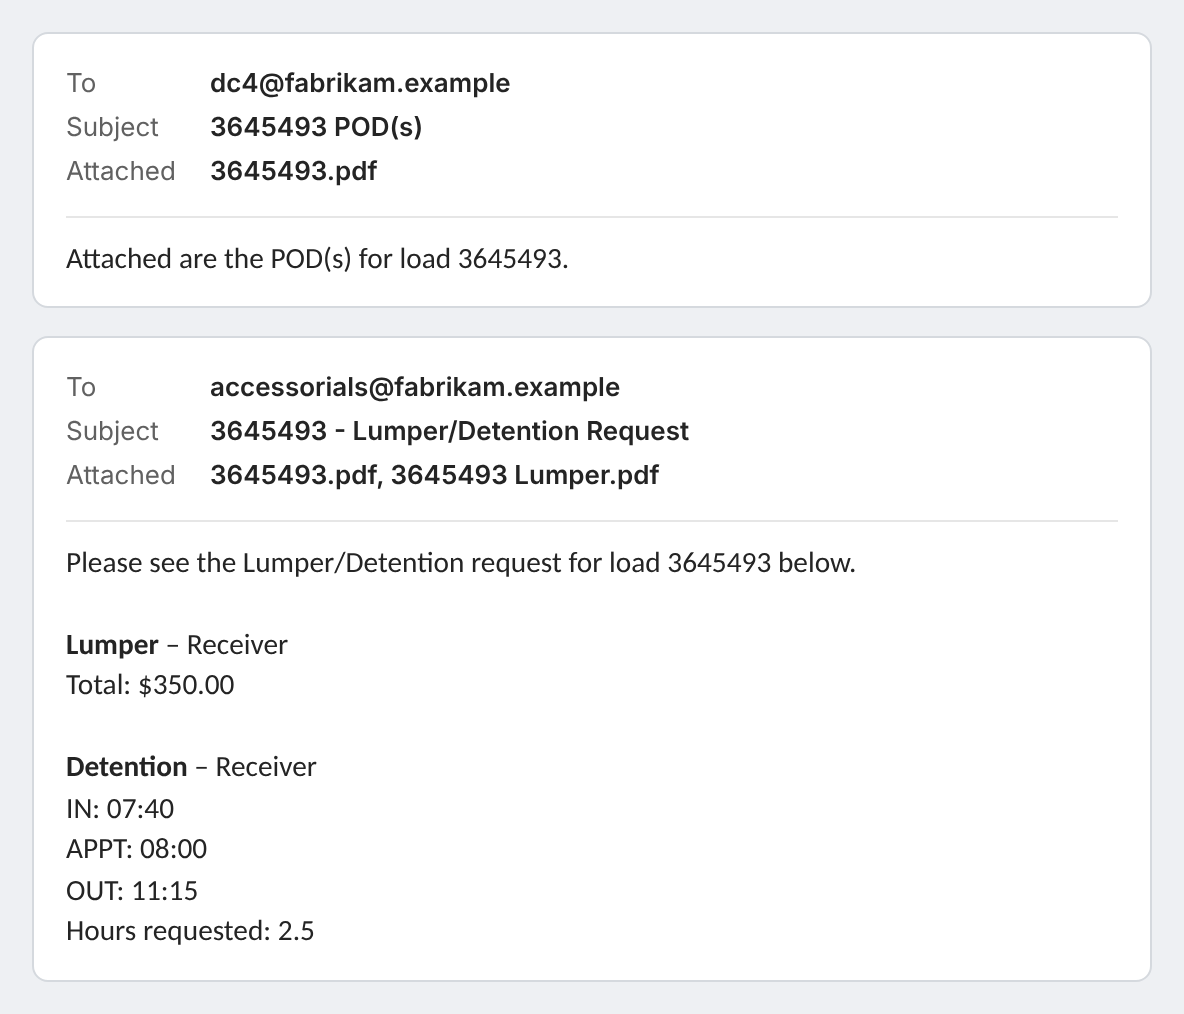
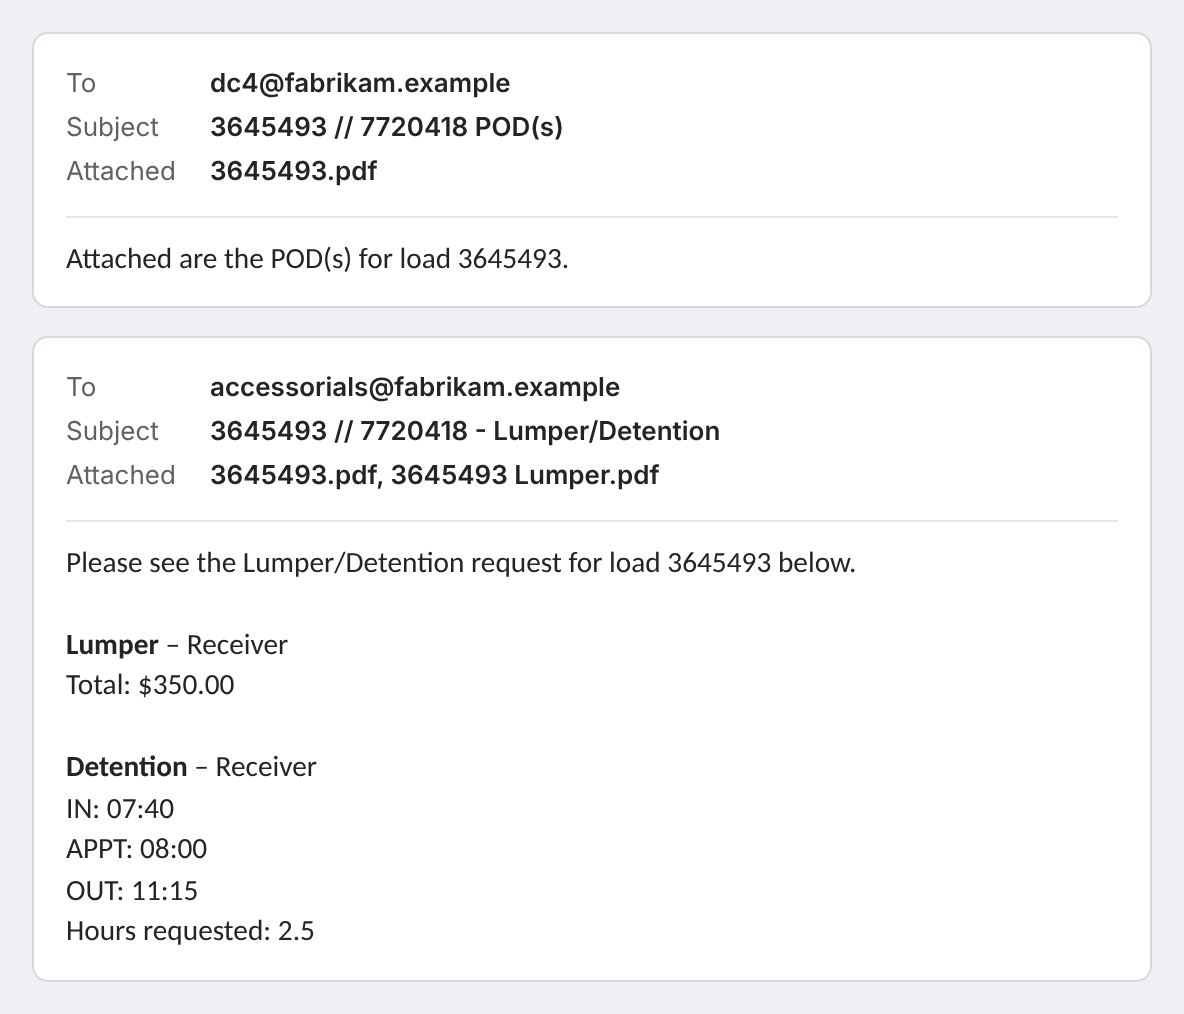
Add files via upload

Changed region(s): [[0.2812, 0.3974, 0.5938, 0.4586], [0.2812, 0.0917, 0.4688, 0.1529]]

diff --git a/taskpane.js b/taskpane.js
@@ -6,7 +6,7 @@
  * optional "attach automatically" step, to the team admin's own PDF Emails Azure function.
  */
 
-const VERSION = '0.28.4';
+const VERSION = '0.28.5';
 const SMALL_INLINE_BYTES = 50 * 1024; // logo test for images whose pixel size can't be read
 const LOGO_MAX_SIDE = 400;            // pictures in the email body this small (in pixels) are logos/icons...
 const LOGO_THIN_SIDE = 120;           // ...and so are thin banners, unless they were pasted into the message itself
@@ -163,6 +163,7 @@ const WORDS = {
 
   // Create email (the accessorials' names and fields are written the same way in the email)
   loadNumber: "Load number",
+  bolNumber: "BOL number",                         // needed for every email: it goes in the subject (0.28.5)
   accessorials: "Accessorials",
   addAccessorial: "Add an accessorial",            // drops down the accessorials; each one picked gets its own box
   lumper: "Lumper",
@@ -182,10 +183,10 @@ const WORDS = {
   shipperOrReceiver: "Shipper or receiver?",       // the drop-down's prompt
   shipperOrStop: "Shipper or which stop?",         // the same, with Multi-stop on
   createEmail: "Create email",
-  subject: "{load} POD(s)",                        // every email's subject
+  subject: "{load} // {bol} POD(s)",               // every email's subject ({bol}: the BOL number typed with the load number)
 
   // The separate accessorial email (for templates with "Accessorials in a separate email")
-  accessorialSubject: "{load} - {types} Request",  // its subject; {types} is like Lumper/Detention
+  accessorialSubject: "{load} // {bol} - {types}", // its subject; {types} is like Lumper/Detention
   accessorialIntro: "Please see the {types} request for load {load} below.", // its first line, unless the template has its own
 
   // The rate confirmation check
@@ -281,6 +282,7 @@ const state = {
   topic: '',
   fileName: '',          // the name typed in "Name the PDF" (for the current thread)
   loadNumber: '',        // the load number typed for an email template (for the current thread)
+  bolNumber: '',         // ...and its BOL number (0.28.5)
   accessorials: emptyAccessorials(), // the accessorials picked and typed for the current thread
   myTemplates: [],
   multiStop: false,      // Multi-stop: one PDF per stop, named -1, -2… (for the current thread)
@@ -997,6 +999,7 @@ async function loadThreadNow(token) {
   renderOneEmailTip(0);
   state.fileName = '';
   state.loadNumber = '';
+  state.bolNumber = '';
   state.accessorials = emptyAccessorials();
   state.multiStop = false; // a new thread starts as a single-stop load
   state.order = null;      // ...in the order its files came in
@@ -4488,9 +4491,9 @@ function templateSub(t, accOnlyNote = true) {
   return notes.join(' · ');
 }
 
-/** Every email's subject, whatever the template: "3645493 POD(s)" (WORDS.subject). */
-function emailSubject(load) {
-  return word('subject', { load: String(load || '').trim() }).trim().slice(0, 255);
+/** Every email's subject, whatever the template: "3645493 // 7720418 POD(s)" (WORDS.subject; the BOL is in it from 0.28.5). */
+function emailSubject(load, bol) {
+  return word('subject', { load: String(load || '').trim(), bol: String(bol || '').trim() }).trim().slice(0, 255);
 }
 
 /** The PDF's name for an email, without .pdf: the template's PDF name, or just the load number. */
@@ -4547,8 +4550,8 @@ function bodyHtml(text, acc, t, lines = true) {
  * The new email's To, CC, subject and message from a template (or a blank email when t is null).
  * lines false: the accessorials are left out (they go in their own email).
  */
-function emailFields(t, load, acc, lines = true) {
-  const form = { subject: emailSubject(load) };
+function emailFields(t, load, acc, lines = true, bol = '') {
+  const form = { subject: emailSubject(load, bol) };
   if (t) {
     const to = parseAddresses(fill(t.to, load));
     const cc = parseAddresses(fill(t.cc, load));
@@ -4574,9 +4577,9 @@ function separateAccessorials(t, acc) {
   return !!(t && t.accSeparate && accessorialTypes(acc).length);
 }
 
-/** "3645493 - Lumper/Detention Request" */
-function accessorialSubject(load, acc) {
-  return word('accessorialSubject', { load: String(load || '').trim(), types: accessorialTypes(acc).join('/') }).trim().slice(0, 255);
+/** "3645493 // 7720418 - Lumper/Detention" (WORDS.accessorialSubject) */
+function accessorialSubject(load, acc, bol) {
+  return word('accessorialSubject', { load: String(load || '').trim(), bol: String(bol || '').trim(), types: accessorialTypes(acc).join('/') }).trim().slice(0, 255);
 }
 
 /** The accessorial email's To and CC: the template's own. A blank To uses the POD email's; a blank CC means no CC. */
@@ -4589,8 +4592,8 @@ function accessorialRecipients(t, load) {
 }
 
 /** The accessorial email: its To, CC, subject, and a message with the accessorials' details. */
-function accessorialFields(t, load, acc) {
-  const form = { subject: accessorialSubject(load, acc) };
+function accessorialFields(t, load, acc, bol = '') {
+  const form = { subject: accessorialSubject(load, acc, bol) };
   const { to, cc } = accessorialRecipients(t, load);
   if (to.length) form.toRecipients = to;
   if (cc.length) form.ccRecipients = cc;
@@ -5032,19 +5035,23 @@ function openLoadForm(t) {
   $('load-form').hidden = false;
   setStatus('');
   $('load-number').value = state.loadNumber || guessLoadNumber(state.fileName) || guessLoadNumber(state.topic) || '';
+  $('bol-number').value = state.bolNumber || '';
   syncAtChoices(); // before the remembered picks go back in, so a stop picked earlier can be found
   fillAccessorials(state.accessorials);
   addTaggedAccessorials(); // a file tagged Lumper (or Other) brings its box
   $('acc-error').textContent = '';
   updateLoadHint();
   updateSelectionUi();
-  $('load-number').focus();
-  $('load-number').select();
+  // The first box to fill in: the load number, or once it's there (from the thread's subject, say) and the BOL isn't, the BOL
+  const first = !$('load-number').value.trim() || $('bol-number').value.trim() ? 'load-number' : 'bol-number';
+  $(first).focus();
+  $(first).select();
 }
 
 function hideLoadForm() {
   closePopup(false);
   if (!$('load-form').hidden) {
+    state.bolNumber = $('bol-number').value.trim(); // (kept for this thread, like the accessorials)
     state.accessorials = readAccessorials(); // kept for this thread
     // (but not a box a tag brought and that's still empty: the tag brings it again)
     for (const kind of emailDraft ? emailDraft.byTag : []) if (accBoxEmpty(kind)) state.accessorials[kind].on = false;
@@ -5079,7 +5086,7 @@ function updateLoadHint() {
     const requestTo = accessorialRecipients(t, load).to.join(', ');
     const both = !layout.splitAcc && accMix().tagged ? ' (PODs and accessorials)' : ''; // (the same name as the POD email's file)
     if (podEmail) hint.append(el('br'));
-    hint.append(`${accessorialSubject(load || '…', acc)}: attaches `, namesFragment(request.names), `${both}${request.note}${untagged}${requestTo ? ` · to ${requestTo}` : ''}`);
+    hint.append(`${accessorialSubject(load || '…', acc, $('bol-number').value.trim() || '…')}: attaches `, namesFragment(request.names), `${both}${request.note}${untagged}${requestTo ? ` · to ${requestTo}` : ''}`);
   } else if (t && t.accSeparate) {
     hint.append(' · accessorials get their own email');
   }
@@ -5090,11 +5097,12 @@ function onLoadSubmit(event) {
   if (!emailDraft || state.busy || !checkedFiles().length) return;
   const t = emailDraft.template;
   const load = $('load-number').value.trim();
-  if (!load) {
+  const bol = $('bol-number').value.trim();
+  if (!load || !bol) { // (both go in the subject)
     const hint = $('load-hint');
-    hint.textContent = 'Type the load number.';
+    hint.textContent = !load ? 'Type the load number.' : 'Type the BOL number.';
     hint.classList.add('error');
-    $('load-number').focus();
+    $(!load ? 'load-number' : 'bol-number').focus();
     return;
   }
   // Typed times and dates as they'll be written (dates first: n there also fills its time)
@@ -5113,8 +5121,9 @@ function onLoadSubmit(event) {
     return;
   }
   state.loadNumber = load;
+  state.bolNumber = bol;
   hideLoadForm();
-  createEmail(t, load, acc).catch(fail);
+  createEmail(t, load, acc, bol).catch(fail);
 }
 
 /** Tidies a typed amount when you leave the box: 350 -> 350.00 */
@@ -5873,7 +5882,7 @@ function onQuizKeys(event) {
  * Outlook attaches them itself; otherwise (or if the upload fails) they wait for the new email's
  * Attach PDF button.
  */
-async function createEmail(template, load, acc) {
+async function createEmail(template, load, acc, bol = '') {
   const base = emailFileBase(template, load);
   const layout = layoutOf(template);
   const stems = accessorialStems(load, acc, base);
@@ -5890,7 +5899,7 @@ async function createEmail(template, load, acc) {
     if (!result) return null;
     const list = [];
     if (!separate) {
-      list.push({ form: emailFields(template, load, acc), files: result.files });
+      list.push({ form: emailFields(template, load, acc, true, bol), files: result.files });
     } else {
       let podFiles = result.files.filter((f) => !f.acc);
       if (mix.tagged && mix.pods && !layout.splitAcc) {
@@ -5900,8 +5909,8 @@ async function createEmail(template, load, acc) {
         podFiles = pods.files;
       }
       // Only accessorial files checked (a lumper request on its own): just the request, no empty POD email
-      if (mix.pods) list.push({ form: emailFields(template, load, acc, false), files: podFiles });
-      list.push({ form: accessorialFields(template, load, acc), files: result.files });
+      if (mix.pods) list.push({ form: emailFields(template, load, acc, false, bol), files: podFiles });
+      list.push({ form: accessorialFields(template, load, acc, bol), files: result.files });
     }
     return { result, emails: list, shrink };
   };

diff --git a/taskpane.html b/taskpane.html
@@ -5,16 +5,16 @@
   <meta name="viewport" content="width=device-width, initial-scale=1">
   <title>Restack</title>
   <!-- Which version this page is (taskpane.js reloads the page once if it was kept from an older one) -->
-  <meta name="restack-version" content="0.28.4">
+  <meta name="restack-version" content="0.28.5">
   <!-- light or dark before anything shows, so the panel doesn't flash white in dark mode -->
-  <script src="mode.js?v=0.28.4"></script>
+  <script src="mode.js?v=0.28.5"></script>
   <script src="https://appsforoffice.microsoft.com/lib/1/hosted/office.js"></script>
   <script src="pdf-lib.min.js"></script>
   <script src="pako_inflate.min.js"></script>
   <script src="UTIF.js"></script>
   <!-- ?v= makes Outlook load the matching versions after an update -->
-  <link rel="stylesheet" href="taskpane.css?v=0.28.4">
-  <script type="module" src="taskpane.js?v=0.28.4"></script>
+  <link rel="stylesheet" href="taskpane.css?v=0.28.5">
+  <script type="module" src="taskpane.js?v=0.28.5"></script>
 </head>
 <body>
   <svg class="svg-defs" width="0" height="0" aria-hidden="true" focusable="false"><defs><linearGradient id="pin-fill" x1="0" y1="0" x2="1" y2="1"><stop offset="0" stop-color="#f5aa2b"/><stop offset=".55" stop-color="#f37f29"/><stop offset="1" stop-color="#f05026"/></linearGradient></defs></svg>
@@ -121,10 +121,19 @@
         </div>
       </form>
       <form id="load-form" class="name-form load-form" hidden novalidate>
-        <div id="load-row" class="field-stack">
-          <label for="load-number" class="name-label" data-w="loadNumber">Load number</label>
-          <div class="name-field">
-            <input id="load-number" type="text" autocomplete="off" spellcheck="false" maxlength="60">
+        <!-- The load number and its BOL number, side by side (one under the other on a narrow panel): both go in the subject (0.28.5) -->
+        <div class="id-row">
+          <div id="load-row" class="field-stack">
+            <label for="load-number" class="name-label" data-w="loadNumber">Load number</label>
+            <div class="name-field">
+              <input id="load-number" type="text" autocomplete="off" spellcheck="false" maxlength="60" aria-required="true">
+            </div>
+          </div>
+          <div id="bol-row" class="field-stack">
+            <label for="bol-number" class="name-label" data-w="bolNumber">BOL number</label>
+            <div class="name-field">
+              <input id="bol-number" type="text" autocomplete="off" spellcheck="false" maxlength="60" aria-required="true">
+            </div>
           </div>
         </div>
         <p id="load-hint" class="hint"></p>
@@ -378,7 +387,7 @@
             <span>Message</span>
             <textarea id="tpl-message" rows="5"></textarea>
           </label>
-          <p class="hint tpl-tip">Type <b>{load}</b> wherever the load number goes: you're asked for it each time. The subject is always the load number and POD(s), like <b>3645493 POD(s)</b>.</p>
+          <p class="hint tpl-tip">Type <b>{load}</b> wherever the load number goes: you're asked for it, and the BOL number, each time. The subject is always the load number, BOL and POD(s), like <b>3645493 // 7720418 POD(s)</b>.</p>
         </section>
         <section class="tpl-group">
           <h3 class="tpl-group-title" data-w="accessorials">Accessorials</h3>
@@ -410,7 +419,7 @@
               <span>Accessorials in a separate email</span>
             </label>
             <div id="tpl-acc-row" class="tpl-sub tpl-acc" hidden>
-              <small class="hint">When an accessorial is picked, Create email opens two emails: the PODs, and a request like <b>3645493 - Lumper/Detention Request</b> with the PODs and accessorial files attached and the details in it.</small>
+              <small class="hint">When an accessorial is picked, Create email opens two emails: the PODs, and a request like <b>3645493 // 7720418 - Lumper/Detention</b> with the PODs and accessorial files attached and the details in it.</small>
               <label class="field">
                 <span>To <span class="muted">(blank: the same as above)</span></span>
                 <input id="tpl-acc-to" type="text" autocomplete="off" spellcheck="false" placeholder="accessorials@example.com">

diff --git a/wiki.html b/wiki.html
@@ -111,7 +111,7 @@
   <header class="mast">
     <div class="mast-in">
       <h1><img class="logo" src="brand/restack-logo-large.png" width="195" height="40" alt="Restack"> <span class="sub">Wiki: how every part of Restack works</span></h1>
-      <div class="mast-links"><span class="tag">For version 0.28.4</span><a href="./">Install page</a></div>
+      <div class="mast-links"><span class="tag">For version 0.28.5</span><a href="./">Install page</a></div>
     </div>
   </header>
 
@@ -320,6 +320,7 @@
       <h3 id="create">The Create email step</h3>
       <ol>
         <li>Check the <strong>Load number</strong>. Restack fills it in from the thread's subject, or the one you used earlier on this thread.</li>
+        <li>Type the <strong>BOL number</strong>. Every email needs it: it goes in the subject. Restack keeps it for the thread.</li>
         <li>The line under it says which files the email will get, and who it goes to.</li>
         <li>Add the load's <a href="#accessorials">accessorials</a>, if any.</li>
         <li>Choose <strong>Create email</strong>. <strong>Cancel</strong> goes back to the list.</li>
@@ -347,7 +348,7 @@
 
       <h3 id="the-email">What the email has</h3>
       <ul>
-        <li><strong>Subject:</strong> the load number and POD(s), like <code>3645493 POD(s)</code>.</li>
+        <li><strong>Subject:</strong> the load number, BOL number and POD(s), like <code>3645493 // 7720418 POD(s)</code>.</li>
         <li><strong>To, CC and message:</strong> from the template, with the load number filled in, and the accessorials' details under the message. A template can also say <strong>No Lumper</strong> when Lumper isn't picked.</li>
         <li><strong>The PDF</strong>, named after the load: <code>3645493.pdf</code> (or the template's own name for it). See <a href="#file-names">File names and sizes</a>.</li>
         <li>If your team turned on <strong>Sent with restack</strong>, a small "sent with restack" line goes under the message, above your own signature.</li>
@@ -361,7 +362,7 @@
       <p>With a template set to send accessorials separately, Create email opens two emails whenever an accessorial is picked (just the request, if only tagged files are checked):</p>
       <ol>
         <li>The <strong>POD email</strong>, with the usual subject and the PODs.</li>
-        <li>The <strong>request</strong>, like <code>3645493 - Lumper/Detention Request</code> (Other's type goes in it too), with the PODs and the accessorial files, each accessorial's details, and the template's own accessorial To, CC and message.</li>
+        <li>The <strong>request</strong>, like <code>3645493 // 7720418 - Lumper/Detention</code> (Other's type goes in it too), with the PODs and the accessorial files, each accessorial's details, and the template's own accessorial To, CC and message.</li>
       </ol>
       <p>Didn't see the second email? <strong>Open it again</strong> under the panel's status line opens it again.</p>
       <figure class="wide"><img src="wiki/two-emails.png" width="592" height="507" alt="The POD email and the Lumper/Detention request" loading="lazy"><figcaption>The two emails. Lumper's receipt is in its own file because the template puts accessorials in their own file; Detention has none, since the PODs are its paperwork.</figcaption></figure>
@@ -412,7 +413,7 @@
       <h4>Email</h4>
       <ul>
         <li><strong>Template name</strong>, <strong>To</strong> (separate addresses with <code>;</code> or <code>,</code>), <strong>CC</strong> (optional) and <strong>Message</strong>.</li>
-        <li>Type <code>{load}</code> wherever the load number goes, in To, CC or Message (and the PDF name). You're asked for it each time. The subject is always the load number and POD(s).</li>
+        <li>Type <code>{load}</code> wherever the load number goes, in To, CC or Message (and the PDF name). You're asked for it, and the BOL number, each time. The subject is always the load number, BOL number and POD(s).</li>
       </ul>
       <h4>Accessorials</h4>
       <ul>

diff --git a/taskpane.css b/taskpane.css
@@ -336,6 +336,10 @@ input[type="checkbox"]:disabled { cursor: default; }
 .load-form { max-height: calc(var(--page-h, 100vh) * .72); overflow-y: auto; overscroll-behavior: contain; padding: 2px; margin: -2px; }
 .load-form > .btn-row { position: sticky; bottom: -2px; padding: 6px 0 2px; background: var(--bg); }
 .field-stack { display: grid; gap: 6px; }
+/* the load number and the BOL number, side by side; one under the other when the panel is too narrow for both (0.28.5) */
+.id-row { display: grid; grid-template-columns: repeat(auto-fit, minmax(128px, 1fr)); gap: 8px 10px; }
+.id-row > .field-stack { min-width: 0; }
+.id-row .name-field input { width: 0; } /* (the box fills its half, whatever the input's own width) */
 .acc { margin: 2px 0 0; padding: 0; border: 0; min-width: 0; display: grid; gap: 8px; }
 .acc legend { padding: 0; margin-bottom: 6px; }
 /* Add an accessorial: looks like a drop-down; each one picked gets its box under it */

diff --git a/index.html b/index.html
@@ -63,7 +63,7 @@
   <header class="mast">
     <div class="mast-in">
       <h1><img class="logo" src="brand/restack-logo-large.png" width="195" height="40" alt="Restack"> <span class="for">for Outlook</span></h1>
-      <span class="tag">Test build 0.28.4</span>
+      <span class="tag">Test build 0.28.5</span>
     </div>
   </header>
   <main>

diff --git a/README.md b/README.md
@@ -2,7 +2,7 @@
 
 An Outlook add-in that lists every attachment in an email thread, lets you preview them, and combines the ones you pick into a single PDF to email or save. Restack was called Thread Attachments before 0.13; it's the same add-in (same ID), so team keys and published templates carry over.
 
-**Status:** test build 0.28.4.
+**Status:** test build 0.28.5.
 
 ## Install
 
@@ -24,10 +24,10 @@ To try a new version before reps get it, put it in the repository's `beta` folde
 - Combines PDFs, photos and scans into one PDF, then emails it or saves it under a name you type.
 - Every PDF stays under 10 MB: a bigger one is split into name-1, name-2… keeping page order, all attached to the same email (a Lumper or Other file too, like "3645493 Lumper-1"). Stop files are kept whole, with a note if one is over.
 - Every email stays under the email size limit (a team setting on Team settings → Files, 35 MB to start, as mail servers count it: files travel in an email as text, about a third bigger). When a load's files would make an email bigger, Create email makes the scanned pages and photos smaller (redrawn at about 150 dpi, then 120 if need be; typed pages stay as they are), and if that still isn't enough, opens it as two emails or more, "(1 of 2)", "(2 of 2)", with as many files in each as fit. Emails under the limit and Save PDF don't change.
-- Email templates: team templates, made by the team's admins in the admin console. Reps can add their own in Outlook (Settings → My templates) only once an admin allows it. Every email asks for the load number, names the PDF after it, fills in the recipients and message, and uses the subject "<load> POD(s)".
+- Email templates: team templates, made by the team's admins in the admin console. Reps can add their own in Outlook (Settings → My templates) only once an admin allows it. Every email asks for the load number and the BOL number (both needed), names the PDF after the load, fills in the recipients and message, and uses the subject "<load> // <BOL> POD(s)".
 - Per-template options: say "No Lumper" when Lumper isn't picked; each stop in its own file or all stops in one; accessorials in their own file (each one tagged in its own, like "3645493 Lumper", and one for each stop when the stops have their own) instead of after the PODs.
 - Accessorial Only (per template): for customers that get the POD only when there's an accessorial. These templates have their own Accessorial Only section in the Email menu, closed to start (even when Other templates is opened), and Create email needs an accessorial picked. They can still be pinned.
-- Accessorials in a separate email (per template): when an accessorial is picked, Create email opens two emails. The POD email has the usual subject and the PODs. The request ("<load> - Lumper/Detention Request", with Other's typed type) has the PODs and the accessorial files (in one file with the PODs, unless the template puts accessorials in their own), the accessorials' details, and its own To, CC and message (a blank To uses the POD email's; a blank CC means no CC).
+- Accessorials in a separate email (per template): when an accessorial is picked, Create email opens two emails. The POD email has the usual subject and the PODs. The request ("<load> // <BOL> - Lumper/Detention", with Other's typed type) has the PODs and the accessorial files (in one file with the PODs, unless the template puts accessorials in their own), the accessorials' details, and its own To, CC and message (a blank To uses the POD email's; a blank CC means no CC).
 - Template questions: a pop-up asked when the template is picked, before the email step. Each answer goes to the next question, jumps ahead to a later one, continues to the email, or stops with a message. {company} fills in with the template's name.
 - Rate confirmation check: an admin adds some of the team's rate confirmations in the admin console (Team settings → Files), as PDFs: the first 3 pages of each, up to 20 files. More can be added later, or one removed, without replacing the rest. Pages like any of them (digital, scanned or faxed, compared by words and by layout), pages that say Rate Confirmation or Load Confirmation, and pages with the same barcode number as a flagged page are flagged and must be left out (or cleared) before emailing or saving.
 - Multi-stop: one PDF per stop, named load-1, load-2…. Each checked file gets a stop number, and a PDF holding several stops can be split by picking a stop for each page in the preview.
